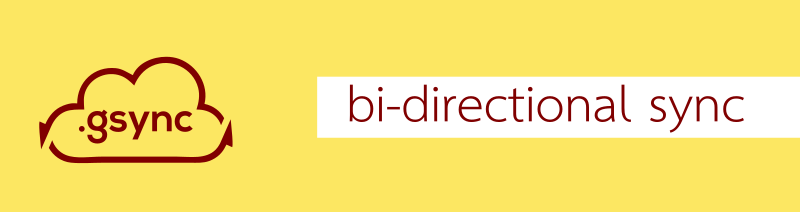
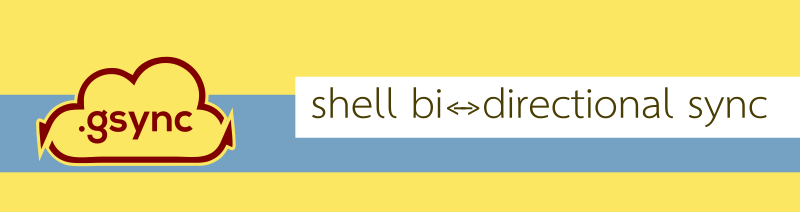
sistemato bash

Changed region(s): [[0.0, 0.3396, 1.0, 0.8208]]

diff --git a/README.md b/README.md
@@ -8,23 +8,22 @@ Sincronizzazione tra una cartella locale e una cartella remota su google drive, 
 
 
 ## Lo script
-```
-#######################################################################################################################
+```bash
+#####################################################################
 source "gsync.sh"
-# two dir for bisync
+# two dir for bisync es: local/remote
 directory_A="local:/home/aldo/Scrivania/sync test - 2/CasaZita"
 directory_B="googlezita:"
-# name unique for this sync (es:"bysincA-B") or "auto" for generated name
+# name unique for this sync (es:"bysincA-B") or "auto" for autoUUID
 name_unico="auto"
 # livello di status
-statuslevel="0"             ;# 0- progress/status/warning/error
-                            # 1- status/warning/error
-                            # 2- warning/error
-                            # 3- only error
+statuslevel="0"   ;# 0- show progress/status/warning/error
+                   # 1- show status/warning/error
+                   # 2- show warning/error
+                   # 3- show only error
 # format of bytes ("readable" or "bytes")
 formatnumber="readable"     
 # Delete temp files ("yes"/"no") for debug
 erasetemp="no"            
-#######################################################################################################################
-We're living the future so<br> the present is our past.
+#####################################################################
 ```
